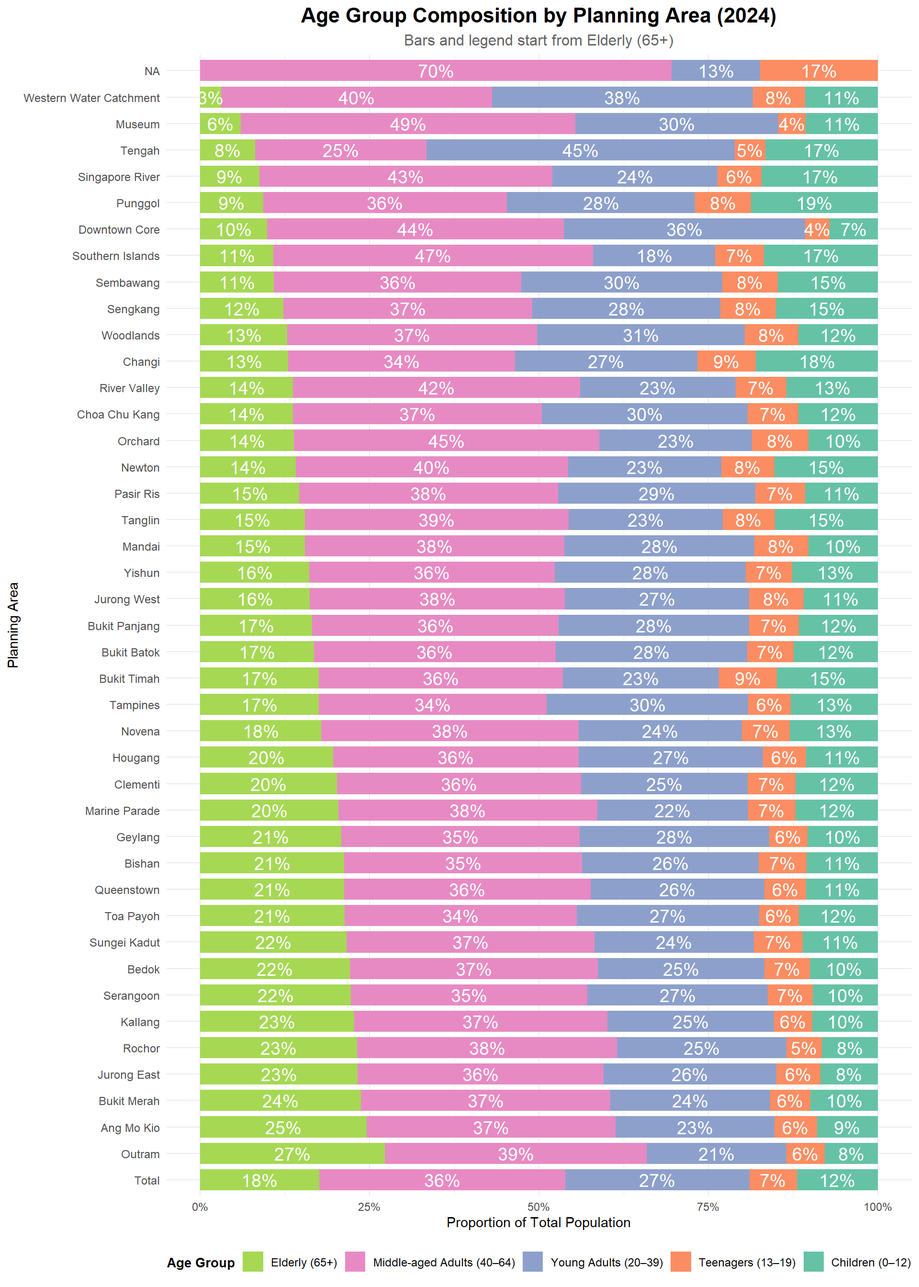
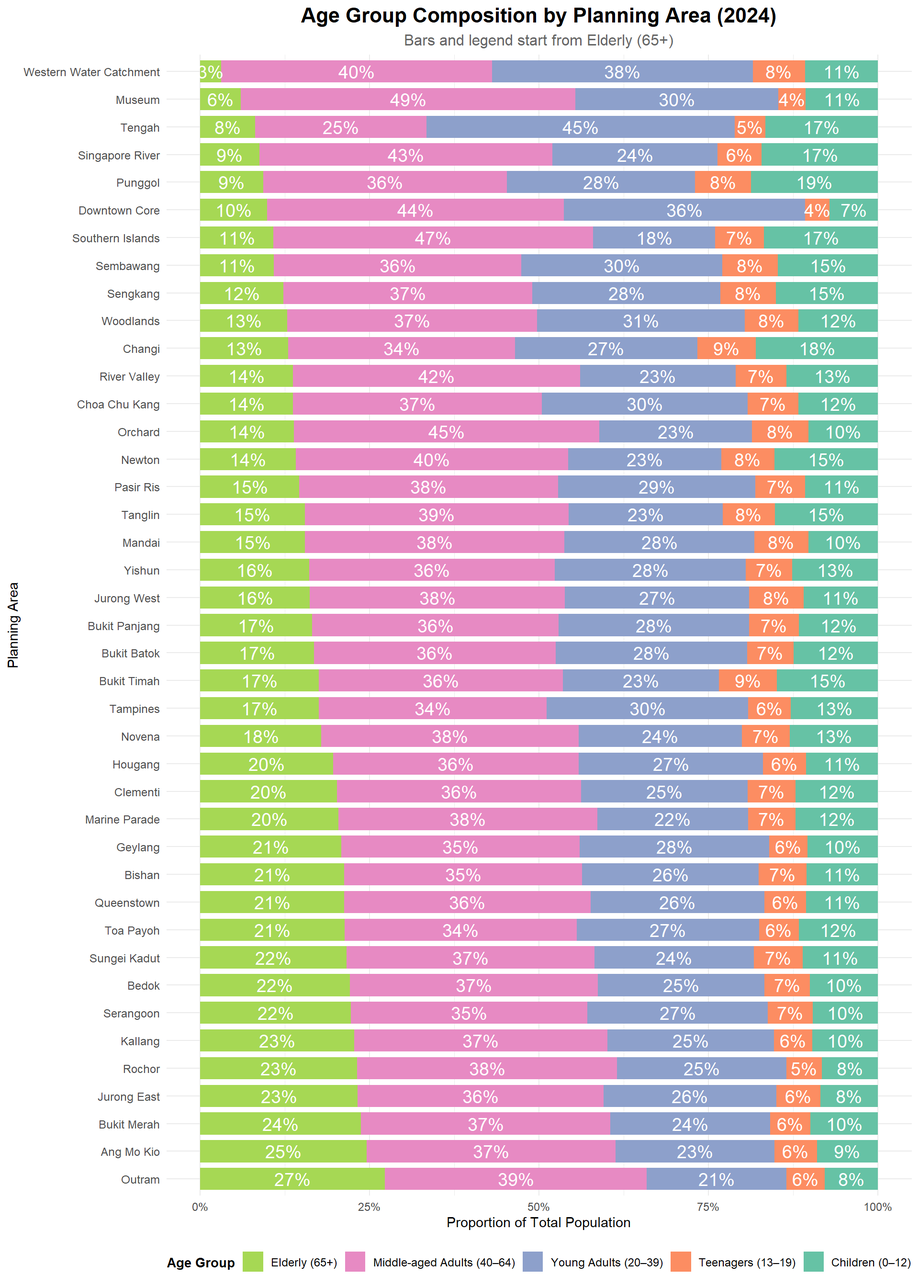
commit fix and visual changes

diff --git a/_site/Take-Home_Ex/Take-Home_Ex01/Take-Home_Ex01.html b/_site/Take-Home_Ex/Take-Home_Ex01/Take-Home_Ex01.html
@@ -185,6 +185,7 @@ pre > code.sourceCode > span > a:first-child::before { text-decoration: underlin
   <ul>
   <li><a href="#editorial-brief-visualising-singapores-resident-population-2024" id="toc-editorial-brief-visualising-singapores-resident-population-2024" class="nav-link active" data-scroll-target="#editorial-brief-visualising-singapores-resident-population-2024">Editorial Brief – Visualising Singapore’s Resident Population (2024)</a>
   <ul class="collapse">
+  <li><a href="#data-source" id="toc-data-source" class="nav-link" data-scroll-target="#data-source">Data Source</a></li>
   <li><a href="#visualisation-objectives" id="toc-visualisation-objectives" class="nav-link" data-scroll-target="#visualisation-objectives">Visualisation Objectives</a></li>
   </ul></li>
   <li><a href="#data-preparation-summary" id="toc-data-preparation-summary" class="nav-link" data-scroll-target="#data-preparation-summary">Data Preparation Summary</a>
@@ -250,8 +251,11 @@ pre > code.sourceCode > span > a:first-child::before { text-decoration: underlin
 <section id="editorial-brief-visualising-singapores-resident-population-2024" class="level2">
 <h2 class="anchored" data-anchor-id="editorial-brief-visualising-singapores-resident-population-2024">Editorial Brief – Visualising Singapore’s Resident Population (2024)</h2>
 <p>As the graphical editor of a media company, I have been tasked to design up to <strong>three impactful data visualisations</strong> to support an article on Singapore’s resident population as of <strong>June 2024</strong>.</p>
-<p>The aim is to help readers quickly understand demographic trends using clear and accessible visuals based on official statistics. ### Data Source</p>
+<p>The aim is to help readers quickly understand demographic trends using clear and accessible visuals based on official statistics.</p>
+<section id="data-source" class="level3">
+<h3 class="anchored" data-anchor-id="data-source">Data Source</h3>
 <p><a href="https://www.singstat.gov.sg/find-data/search-by-theme/population/geographic-distribution/latest-data">Department of Statistics Singapore (DOS)</a>: Planning Area and Subzone, Single Year of Age (0–100+), Sex (Male, Female, Total), Resident Population counts (as of June 2024)</p>
+</section>
 <section id="visualisation-objectives" class="level3">
 <h3 class="anchored" data-anchor-id="visualisation-objectives">Visualisation Objectives</h3>
 <ul>
@@ -376,7 +380,7 @@ Any rows with missing (<code>NA</code>) values in <code>Age</code> or <code>Popu
 <span id="cb3-8"><a href="#cb3-8" aria-hidden="true" tabindex="-1"></a>  <span class="fu">scale_y_continuous</span>(<span class="at">labels =</span> <span class="cf">function</span>(x) <span class="fu">comma</span>(<span class="fu">abs</span>(x))) <span class="sc">+</span></span>
 <span id="cb3-9"><a href="#cb3-9" aria-hidden="true" tabindex="-1"></a>  <span class="fu">scale_fill_manual</span>(</span>
 <span id="cb3-10"><a href="#cb3-10" aria-hidden="true" tabindex="-1"></a>    <span class="at">values =</span> <span class="fu">c</span>(<span class="st">"Males"</span> <span class="ot">=</span> <span class="st">"#00bfc4"</span>, <span class="st">"Females"</span> <span class="ot">=</span> <span class="st">"#f8766d"</span>),</span>
-<span id="cb3-11"><a href="#cb3-11" aria-hidden="true" tabindex="-1"></a>    <span class="at">breaks =</span> <span class="fu">c</span>(<span class="st">"Males"</span>, <span class="st">"Females"</span>),  <span class="co"># ensures correct order in legend</span></span>
+<span id="cb3-11"><a href="#cb3-11" aria-hidden="true" tabindex="-1"></a>    <span class="at">breaks =</span> <span class="fu">c</span>(<span class="st">"Males"</span>, <span class="st">"Females"</span>), </span>
 <span id="cb3-12"><a href="#cb3-12" aria-hidden="true" tabindex="-1"></a>    <span class="at">labels =</span> <span class="fu">c</span>(<span class="st">"Males"</span>, <span class="st">"Females"</span>)</span>
 <span id="cb3-13"><a href="#cb3-13" aria-hidden="true" tabindex="-1"></a>  ) <span class="sc">+</span></span>
 <span id="cb3-14"><a href="#cb3-14" aria-hidden="true" tabindex="-1"></a>  <span class="fu">labs</span>(</span>
@@ -511,64 +515,81 @@ Compared to the total population, the <strong>elderly population values are clos
 <span id="cb5-12"><a href="#cb5-12" aria-hidden="true" tabindex="-1"></a></span>
 <span id="cb5-13"><a href="#cb5-13" aria-hidden="true" tabindex="-1"></a>pop_grouped <span class="ot">&lt;-</span> pop_data <span class="sc">%&gt;%</span></span>
 <span id="cb5-14"><a href="#cb5-14" aria-hidden="true" tabindex="-1"></a>  <span class="fu">filter</span>(Sex <span class="sc">==</span> <span class="st">"Total"</span>) <span class="sc">%&gt;%</span></span>
-<span id="cb5-15"><a href="#cb5-15" aria-hidden="true" tabindex="-1"></a>  <span class="fu">mutate</span>(<span class="at">Age_Group =</span> <span class="fu">case_when</span>(</span>
-<span id="cb5-16"><a href="#cb5-16" aria-hidden="true" tabindex="-1"></a>    Age <span class="sc">&gt;=</span> <span class="dv">0</span>  <span class="sc">&amp;</span> Age <span class="sc">&lt;=</span> <span class="dv">12</span>  <span class="sc">~</span> <span class="st">"Children (0–12)"</span>,</span>
-<span id="cb5-17"><a href="#cb5-17" aria-hidden="true" tabindex="-1"></a>    Age <span class="sc">&gt;=</span> <span class="dv">13</span> <span class="sc">&amp;</span> Age <span class="sc">&lt;=</span> <span class="dv">19</span>  <span class="sc">~</span> <span class="st">"Teenagers (13–19)"</span>,</span>
-<span id="cb5-18"><a href="#cb5-18" aria-hidden="true" tabindex="-1"></a>    Age <span class="sc">&gt;=</span> <span class="dv">20</span> <span class="sc">&amp;</span> Age <span class="sc">&lt;=</span> <span class="dv">39</span>  <span class="sc">~</span> <span class="st">"Young Adults (20–39)"</span>,</span>
-<span id="cb5-19"><a href="#cb5-19" aria-hidden="true" tabindex="-1"></a>    Age <span class="sc">&gt;=</span> <span class="dv">40</span> <span class="sc">&amp;</span> Age <span class="sc">&lt;=</span> <span class="dv">64</span>  <span class="sc">~</span> <span class="st">"Middle-aged Adults (40–64)"</span>,</span>
-<span id="cb5-20"><a href="#cb5-20" aria-hidden="true" tabindex="-1"></a>    Age <span class="sc">&gt;=</span> <span class="dv">65</span>              <span class="sc">~</span> <span class="st">"Elderly (65+)"</span></span>
-<span id="cb5-21"><a href="#cb5-21" aria-hidden="true" tabindex="-1"></a>  )) <span class="sc">%&gt;%</span></span>
-<span id="cb5-22"><a href="#cb5-22" aria-hidden="true" tabindex="-1"></a>  <span class="fu">mutate</span>(<span class="at">Age_Group =</span> <span class="fu">factor</span>(Age_Group, <span class="at">levels =</span> age_levels)) <span class="sc">%&gt;%</span></span>
-<span id="cb5-23"><a href="#cb5-23" aria-hidden="true" tabindex="-1"></a>  <span class="fu">group_by</span>(<span class="st">`</span><span class="at">Planning Area</span><span class="st">`</span>, Age_Group) <span class="sc">%&gt;%</span></span>
-<span id="cb5-24"><a href="#cb5-24" aria-hidden="true" tabindex="-1"></a>  <span class="fu">summarise</span>(<span class="at">Population =</span> <span class="fu">sum</span>(Population), <span class="at">.groups =</span> <span class="st">"drop"</span>)</span>
-<span id="cb5-25"><a href="#cb5-25" aria-hidden="true" tabindex="-1"></a></span>
-<span id="cb5-26"><a href="#cb5-26" aria-hidden="true" tabindex="-1"></a>pop_percent <span class="ot">&lt;-</span> pop_grouped <span class="sc">%&gt;%</span></span>
-<span id="cb5-27"><a href="#cb5-27" aria-hidden="true" tabindex="-1"></a>  <span class="fu">mutate</span>(<span class="st">`</span><span class="at">Planning Area</span><span class="st">`</span> <span class="ot">=</span> <span class="fu">trimws</span>(<span class="st">`</span><span class="at">Planning Area</span><span class="st">`</span>)) <span class="sc">%&gt;%</span></span>
-<span id="cb5-28"><a href="#cb5-28" aria-hidden="true" tabindex="-1"></a>  <span class="fu">filter</span>(<span class="sc">!</span><span class="fu">is.na</span>(<span class="st">`</span><span class="at">Planning Area</span><span class="st">`</span>), <span class="st">`</span><span class="at">Planning Area</span><span class="st">`</span> <span class="sc">!=</span> <span class="st">""</span>, <span class="fu">toupper</span>(<span class="st">`</span><span class="at">Planning Area</span><span class="st">`</span>) <span class="sc">!=</span> <span class="st">"NA"</span>) <span class="sc">%&gt;%</span></span>
-<span id="cb5-29"><a href="#cb5-29" aria-hidden="true" tabindex="-1"></a>  <span class="fu">group_by</span>(<span class="st">`</span><span class="at">Planning Area</span><span class="st">`</span>) <span class="sc">%&gt;%</span></span>
-<span id="cb5-30"><a href="#cb5-30" aria-hidden="true" tabindex="-1"></a>  <span class="fu">mutate</span>(<span class="at">Total =</span> <span class="fu">sum</span>(Population),</span>
-<span id="cb5-31"><a href="#cb5-31" aria-hidden="true" tabindex="-1"></a>         <span class="at">Share =</span> Population <span class="sc">/</span> Total) <span class="sc">%&gt;%</span></span>
-<span id="cb5-32"><a href="#cb5-32" aria-hidden="true" tabindex="-1"></a>  <span class="fu">ungroup</span>()</span>
-<span id="cb5-33"><a href="#cb5-33" aria-hidden="true" tabindex="-1"></a></span>
-<span id="cb5-34"><a href="#cb5-34" aria-hidden="true" tabindex="-1"></a>ordering <span class="ot">&lt;-</span> pop_percent <span class="sc">%&gt;%</span></span>
-<span id="cb5-35"><a href="#cb5-35" aria-hidden="true" tabindex="-1"></a>  <span class="fu">filter</span>(Age_Group <span class="sc">==</span> <span class="st">"Elderly (65+)"</span>, <span class="st">`</span><span class="at">Planning Area</span><span class="st">`</span> <span class="sc">!=</span> <span class="st">"Total"</span>) <span class="sc">%&gt;%</span></span>
-<span id="cb5-36"><a href="#cb5-36" aria-hidden="true" tabindex="-1"></a>  <span class="fu">arrange</span>(<span class="fu">desc</span>(Share)) <span class="sc">%&gt;%</span></span>
-<span id="cb5-37"><a href="#cb5-37" aria-hidden="true" tabindex="-1"></a>  <span class="fu">pull</span>(<span class="st">`</span><span class="at">Planning Area</span><span class="st">`</span>)</span>
-<span id="cb5-38"><a href="#cb5-38" aria-hidden="true" tabindex="-1"></a></span>
-<span id="cb5-39"><a href="#cb5-39" aria-hidden="true" tabindex="-1"></a>pop_percent<span class="sc">$</span><span class="st">`</span><span class="at">Planning Area</span><span class="st">`</span> <span class="ot">&lt;-</span> <span class="fu">factor</span>(</span>
-<span id="cb5-40"><a href="#cb5-40" aria-hidden="true" tabindex="-1"></a>  pop_percent<span class="sc">$</span><span class="st">`</span><span class="at">Planning Area</span><span class="st">`</span>,</span>
-<span id="cb5-41"><a href="#cb5-41" aria-hidden="true" tabindex="-1"></a>  <span class="at">levels =</span> <span class="fu">c</span>(<span class="st">"Total"</span>, ordering)</span>
-<span id="cb5-42"><a href="#cb5-42" aria-hidden="true" tabindex="-1"></a>)</span>
+<span id="cb5-15"><a href="#cb5-15" aria-hidden="true" tabindex="-1"></a>  <span class="fu">mutate</span>(</span>
+<span id="cb5-16"><a href="#cb5-16" aria-hidden="true" tabindex="-1"></a>    <span class="at">Age_Group =</span> <span class="fu">case_when</span>(</span>
+<span id="cb5-17"><a href="#cb5-17" aria-hidden="true" tabindex="-1"></a>      Age <span class="sc">&gt;=</span> <span class="dv">0</span>  <span class="sc">&amp;</span> Age <span class="sc">&lt;=</span> <span class="dv">12</span>  <span class="sc">~</span> <span class="st">"Children (0–12)"</span>,</span>
+<span id="cb5-18"><a href="#cb5-18" aria-hidden="true" tabindex="-1"></a>      Age <span class="sc">&gt;=</span> <span class="dv">13</span> <span class="sc">&amp;</span> Age <span class="sc">&lt;=</span> <span class="dv">19</span>  <span class="sc">~</span> <span class="st">"Teenagers (13–19)"</span>,</span>
+<span id="cb5-19"><a href="#cb5-19" aria-hidden="true" tabindex="-1"></a>      Age <span class="sc">&gt;=</span> <span class="dv">20</span> <span class="sc">&amp;</span> Age <span class="sc">&lt;=</span> <span class="dv">39</span>  <span class="sc">~</span> <span class="st">"Young Adults (20–39)"</span>,</span>
+<span id="cb5-20"><a href="#cb5-20" aria-hidden="true" tabindex="-1"></a>      Age <span class="sc">&gt;=</span> <span class="dv">40</span> <span class="sc">&amp;</span> Age <span class="sc">&lt;=</span> <span class="dv">64</span>  <span class="sc">~</span> <span class="st">"Middle-aged Adults (40–64)"</span>,</span>
+<span id="cb5-21"><a href="#cb5-21" aria-hidden="true" tabindex="-1"></a>      Age <span class="sc">&gt;=</span> <span class="dv">65</span>              <span class="sc">~</span> <span class="st">"Elderly (65+)"</span></span>
+<span id="cb5-22"><a href="#cb5-22" aria-hidden="true" tabindex="-1"></a>    )</span>
+<span id="cb5-23"><a href="#cb5-23" aria-hidden="true" tabindex="-1"></a>  ) <span class="sc">%&gt;%</span></span>
+<span id="cb5-24"><a href="#cb5-24" aria-hidden="true" tabindex="-1"></a>  <span class="fu">filter</span>(<span class="sc">!</span><span class="fu">is.na</span>(Age_Group)) <span class="sc">%&gt;%</span>  </span>
+<span id="cb5-25"><a href="#cb5-25" aria-hidden="true" tabindex="-1"></a>  <span class="fu">group_by</span>(<span class="st">`</span><span class="at">Planning Area</span><span class="st">`</span>, Age_Group) <span class="sc">%&gt;%</span></span>
+<span id="cb5-26"><a href="#cb5-26" aria-hidden="true" tabindex="-1"></a>  <span class="fu">summarise</span>(<span class="at">Population =</span> <span class="fu">sum</span>(Population), <span class="at">.groups =</span> <span class="st">"drop"</span>)</span>
+<span id="cb5-27"><a href="#cb5-27" aria-hidden="true" tabindex="-1"></a></span>
+<span id="cb5-28"><a href="#cb5-28" aria-hidden="true" tabindex="-1"></a></span>
+<span id="cb5-29"><a href="#cb5-29" aria-hidden="true" tabindex="-1"></a>pop_percent <span class="ot">&lt;-</span> pop_grouped <span class="sc">%&gt;%</span></span>
+<span id="cb5-30"><a href="#cb5-30" aria-hidden="true" tabindex="-1"></a>  <span class="fu">mutate</span>(<span class="st">`</span><span class="at">Planning Area</span><span class="st">`</span> <span class="ot">=</span> <span class="fu">trimws</span>(<span class="st">`</span><span class="at">Planning Area</span><span class="st">`</span>)) <span class="sc">%&gt;%</span></span>
+<span id="cb5-31"><a href="#cb5-31" aria-hidden="true" tabindex="-1"></a>  <span class="fu">filter</span>(</span>
+<span id="cb5-32"><a href="#cb5-32" aria-hidden="true" tabindex="-1"></a>    <span class="sc">!</span><span class="fu">is.na</span>(<span class="st">`</span><span class="at">Planning Area</span><span class="st">`</span>),</span>
+<span id="cb5-33"><a href="#cb5-33" aria-hidden="true" tabindex="-1"></a>    <span class="st">`</span><span class="at">Planning Area</span><span class="st">`</span> <span class="sc">!=</span> <span class="st">""</span>,</span>
+<span id="cb5-34"><a href="#cb5-34" aria-hidden="true" tabindex="-1"></a>    <span class="st">`</span><span class="at">Planning Area</span><span class="st">`</span> <span class="sc">!=</span> <span class="st">"NA"</span>,  </span>
+<span id="cb5-35"><a href="#cb5-35" aria-hidden="true" tabindex="-1"></a>    <span class="st">`</span><span class="at">Planning Area</span><span class="st">`</span> <span class="sc">!=</span> <span class="st">"Total"</span></span>
+<span id="cb5-36"><a href="#cb5-36" aria-hidden="true" tabindex="-1"></a>  ) <span class="sc">%&gt;%</span></span>
+<span id="cb5-37"><a href="#cb5-37" aria-hidden="true" tabindex="-1"></a>  <span class="fu">group_by</span>(<span class="st">`</span><span class="at">Planning Area</span><span class="st">`</span>) <span class="sc">%&gt;%</span></span>
+<span id="cb5-38"><a href="#cb5-38" aria-hidden="true" tabindex="-1"></a>  <span class="fu">mutate</span>(</span>
+<span id="cb5-39"><a href="#cb5-39" aria-hidden="true" tabindex="-1"></a>    <span class="at">Total =</span> <span class="fu">sum</span>(Population),</span>
+<span id="cb5-40"><a href="#cb5-40" aria-hidden="true" tabindex="-1"></a>    <span class="at">Share =</span> Population <span class="sc">/</span> Total</span>
+<span id="cb5-41"><a href="#cb5-41" aria-hidden="true" tabindex="-1"></a>  ) <span class="sc">%&gt;%</span></span>
+<span id="cb5-42"><a href="#cb5-42" aria-hidden="true" tabindex="-1"></a>  <span class="fu">ungroup</span>()</span>
 <span id="cb5-43"><a href="#cb5-43" aria-hidden="true" tabindex="-1"></a></span>
-<span id="cb5-44"><a href="#cb5-44" aria-hidden="true" tabindex="-1"></a>pop_percent<span class="sc">$</span>Age_Group <span class="ot">&lt;-</span> <span class="fu">factor</span>(pop_percent<span class="sc">$</span>Age_Group, <span class="at">levels =</span> <span class="fu">rev</span>(age_levels))</span>
-<span id="cb5-45"><a href="#cb5-45" aria-hidden="true" tabindex="-1"></a></span>
-<span id="cb5-46"><a href="#cb5-46" aria-hidden="true" tabindex="-1"></a><span class="fu">ggplot</span>(pop_percent, <span class="fu">aes</span>(<span class="at">x =</span> <span class="st">`</span><span class="at">Planning Area</span><span class="st">`</span>, <span class="at">y =</span> Share, <span class="at">fill =</span> Age_Group)) <span class="sc">+</span></span>
-<span id="cb5-47"><a href="#cb5-47" aria-hidden="true" tabindex="-1"></a>  <span class="fu">geom_col</span>(<span class="at">width =</span> <span class="fl">0.8</span>) <span class="sc">+</span></span>
-<span id="cb5-48"><a href="#cb5-48" aria-hidden="true" tabindex="-1"></a>  <span class="fu">geom_text</span>(<span class="fu">aes</span>(<span class="at">label =</span> scales<span class="sc">::</span><span class="fu">percent</span>(Share, <span class="at">accuracy =</span> <span class="dv">1</span>)),</span>
-<span id="cb5-49"><a href="#cb5-49" aria-hidden="true" tabindex="-1"></a>            <span class="at">position =</span> <span class="fu">position_stack</span>(<span class="at">vjust =</span> <span class="fl">0.5</span>),</span>
-<span id="cb5-50"><a href="#cb5-50" aria-hidden="true" tabindex="-1"></a>            <span class="at">size =</span> <span class="dv">5</span>, <span class="at">color =</span> <span class="st">"white"</span>) <span class="sc">+</span></span>
-<span id="cb5-51"><a href="#cb5-51" aria-hidden="true" tabindex="-1"></a>  <span class="fu">scale_y_continuous</span>(<span class="at">labels =</span> <span class="fu">percent_format</span>(<span class="at">accuracy =</span> <span class="dv">1</span>)) <span class="sc">+</span></span>
-<span id="cb5-52"><a href="#cb5-52" aria-hidden="true" tabindex="-1"></a>  <span class="fu">scale_fill_manual</span>(</span>
-<span id="cb5-53"><a href="#cb5-53" aria-hidden="true" tabindex="-1"></a>    <span class="at">values =</span> age_colors,</span>
-<span id="cb5-54"><a href="#cb5-54" aria-hidden="true" tabindex="-1"></a>    <span class="at">breaks =</span> age_levels</span>
-<span id="cb5-55"><a href="#cb5-55" aria-hidden="true" tabindex="-1"></a>  ) <span class="sc">+</span></span>
-<span id="cb5-56"><a href="#cb5-56" aria-hidden="true" tabindex="-1"></a>  <span class="fu">coord_flip</span>() <span class="sc">+</span></span>
-<span id="cb5-57"><a href="#cb5-57" aria-hidden="true" tabindex="-1"></a>  <span class="fu">labs</span>(</span>
-<span id="cb5-58"><a href="#cb5-58" aria-hidden="true" tabindex="-1"></a>    <span class="at">title =</span> <span class="st">"Age Group Composition by Planning Area (2024)"</span>,</span>
-<span id="cb5-59"><a href="#cb5-59" aria-hidden="true" tabindex="-1"></a>    <span class="at">subtitle =</span> <span class="st">"Bars and legend start from Elderly (65+)"</span>,</span>
-<span id="cb5-60"><a href="#cb5-60" aria-hidden="true" tabindex="-1"></a>    <span class="at">x =</span> <span class="st">"Planning Area"</span>,</span>
-<span id="cb5-61"><a href="#cb5-61" aria-hidden="true" tabindex="-1"></a>    <span class="at">y =</span> <span class="st">"Proportion of Total Population"</span>,</span>
-<span id="cb5-62"><a href="#cb5-62" aria-hidden="true" tabindex="-1"></a>    <span class="at">fill =</span> <span class="st">"Age Group"</span></span>
-<span id="cb5-63"><a href="#cb5-63" aria-hidden="true" tabindex="-1"></a>  ) <span class="sc">+</span></span>
-<span id="cb5-64"><a href="#cb5-64" aria-hidden="true" tabindex="-1"></a>  <span class="fu">theme_minimal</span>(<span class="at">base_family =</span> <span class="st">"Helvetica"</span>) <span class="sc">+</span></span>
-<span id="cb5-65"><a href="#cb5-65" aria-hidden="true" tabindex="-1"></a>  <span class="fu">theme</span>(</span>
-<span id="cb5-66"><a href="#cb5-66" aria-hidden="true" tabindex="-1"></a>    <span class="at">plot.title =</span> <span class="fu">element_text</span>(<span class="at">face =</span> <span class="st">"bold"</span>, <span class="at">size =</span> <span class="dv">16</span>, <span class="at">hjust =</span> <span class="fl">0.5</span>),</span>
-<span id="cb5-67"><a href="#cb5-67" aria-hidden="true" tabindex="-1"></a>    <span class="at">plot.subtitle =</span> <span class="fu">element_text</span>(<span class="at">size =</span> <span class="dv">12</span>, <span class="at">hjust =</span> <span class="fl">0.5</span>, <span class="at">color =</span> <span class="st">"grey40"</span>),</span>
-<span id="cb5-68"><a href="#cb5-68" aria-hidden="true" tabindex="-1"></a>    <span class="at">legend.position =</span> <span class="st">"bottom"</span>,</span>
-<span id="cb5-69"><a href="#cb5-69" aria-hidden="true" tabindex="-1"></a>    <span class="at">legend.title =</span> <span class="fu">element_text</span>(<span class="at">size =</span> <span class="dv">10</span>, <span class="at">face =</span> <span class="st">"bold"</span>),</span>
-<span id="cb5-70"><a href="#cb5-70" aria-hidden="true" tabindex="-1"></a>    <span class="at">legend.text =</span> <span class="fu">element_text</span>(<span class="at">size =</span> <span class="dv">9</span>),</span>
-<span id="cb5-71"><a href="#cb5-71" aria-hidden="true" tabindex="-1"></a>    <span class="at">axis.text =</span> <span class="fu">element_text</span>(<span class="at">size =</span> <span class="dv">9</span>)</span>
-<span id="cb5-72"><a href="#cb5-72" aria-hidden="true" tabindex="-1"></a>  )</span></code><button title="Copy to Clipboard" class="code-copy-button"><i class="bi"></i></button></pre></div>
+<span id="cb5-44"><a href="#cb5-44" aria-hidden="true" tabindex="-1"></a></span>
+<span id="cb5-45"><a href="#cb5-45" aria-hidden="true" tabindex="-1"></a><span class="cf">if</span>(<span class="st">"NA"</span> <span class="sc">%in%</span> pop_percent<span class="sc">$</span><span class="st">`</span><span class="at">Planning Area</span><span class="st">`</span>) {</span>
+<span id="cb5-46"><a href="#cb5-46" aria-hidden="true" tabindex="-1"></a>  <span class="fu">print</span>(<span class="st">"Warning: 'NA' string still found in Planning Area"</span>)</span>
+<span id="cb5-47"><a href="#cb5-47" aria-hidden="true" tabindex="-1"></a>}</span>
+<span id="cb5-48"><a href="#cb5-48" aria-hidden="true" tabindex="-1"></a></span>
+<span id="cb5-49"><a href="#cb5-49" aria-hidden="true" tabindex="-1"></a></span>
+<span id="cb5-50"><a href="#cb5-50" aria-hidden="true" tabindex="-1"></a>ordering <span class="ot">&lt;-</span> pop_percent <span class="sc">%&gt;%</span></span>
+<span id="cb5-51"><a href="#cb5-51" aria-hidden="true" tabindex="-1"></a>  <span class="fu">filter</span>(Age_Group <span class="sc">==</span> <span class="st">"Elderly (65+)"</span>) <span class="sc">%&gt;%</span></span>
+<span id="cb5-52"><a href="#cb5-52" aria-hidden="true" tabindex="-1"></a>  <span class="fu">arrange</span>(<span class="fu">desc</span>(Share)) <span class="sc">%&gt;%</span></span>
+<span id="cb5-53"><a href="#cb5-53" aria-hidden="true" tabindex="-1"></a>  <span class="fu">pull</span>(<span class="st">`</span><span class="at">Planning Area</span><span class="st">`</span>)</span>
+<span id="cb5-54"><a href="#cb5-54" aria-hidden="true" tabindex="-1"></a></span>
+<span id="cb5-55"><a href="#cb5-55" aria-hidden="true" tabindex="-1"></a>ordering <span class="ot">&lt;-</span> ordering[<span class="sc">!</span><span class="fu">is.na</span>(ordering) <span class="sc">&amp;</span> ordering <span class="sc">!=</span> <span class="st">"NA"</span>]</span>
+<span id="cb5-56"><a href="#cb5-56" aria-hidden="true" tabindex="-1"></a></span>
+<span id="cb5-57"><a href="#cb5-57" aria-hidden="true" tabindex="-1"></a>pop_percent<span class="sc">$</span><span class="st">`</span><span class="at">Planning Area</span><span class="st">`</span> <span class="ot">&lt;-</span> <span class="fu">factor</span>(pop_percent<span class="sc">$</span><span class="st">`</span><span class="at">Planning Area</span><span class="st">`</span>, <span class="at">levels =</span> ordering)</span>
+<span id="cb5-58"><a href="#cb5-58" aria-hidden="true" tabindex="-1"></a>pop_percent<span class="sc">$</span>Age_Group <span class="ot">&lt;-</span> <span class="fu">factor</span>(pop_percent<span class="sc">$</span>Age_Group, <span class="at">levels =</span> <span class="fu">rev</span>(age_levels))</span>
+<span id="cb5-59"><a href="#cb5-59" aria-hidden="true" tabindex="-1"></a></span>
+<span id="cb5-60"><a href="#cb5-60" aria-hidden="true" tabindex="-1"></a>pop_percent <span class="ot">&lt;-</span> pop_percent <span class="sc">%&gt;%</span></span>
+<span id="cb5-61"><a href="#cb5-61" aria-hidden="true" tabindex="-1"></a>  <span class="fu">filter</span>(<span class="st">`</span><span class="at">Planning Area</span><span class="st">`</span> <span class="sc">!=</span> <span class="st">"NA"</span> <span class="sc">&amp;</span> <span class="sc">!</span><span class="fu">is.na</span>(<span class="st">`</span><span class="at">Planning Area</span><span class="st">`</span>))</span>
+<span id="cb5-62"><a href="#cb5-62" aria-hidden="true" tabindex="-1"></a></span>
+<span id="cb5-63"><a href="#cb5-63" aria-hidden="true" tabindex="-1"></a><span class="fu">ggplot</span>(pop_percent, <span class="fu">aes</span>(<span class="at">x =</span> <span class="st">`</span><span class="at">Planning Area</span><span class="st">`</span>, <span class="at">y =</span> Share, <span class="at">fill =</span> Age_Group)) <span class="sc">+</span></span>
+<span id="cb5-64"><a href="#cb5-64" aria-hidden="true" tabindex="-1"></a>  <span class="fu">geom_col</span>(<span class="at">width =</span> <span class="fl">0.8</span>) <span class="sc">+</span></span>
+<span id="cb5-65"><a href="#cb5-65" aria-hidden="true" tabindex="-1"></a>  <span class="fu">geom_text</span>(</span>
+<span id="cb5-66"><a href="#cb5-66" aria-hidden="true" tabindex="-1"></a>    <span class="fu">aes</span>(<span class="at">label =</span> <span class="fu">percent</span>(Share, <span class="at">accuracy =</span> <span class="dv">1</span>)),</span>
+<span id="cb5-67"><a href="#cb5-67" aria-hidden="true" tabindex="-1"></a>    <span class="at">position =</span> <span class="fu">position_stack</span>(<span class="at">vjust =</span> <span class="fl">0.5</span>),</span>
+<span id="cb5-68"><a href="#cb5-68" aria-hidden="true" tabindex="-1"></a>    <span class="at">size =</span> <span class="dv">5</span>,</span>
+<span id="cb5-69"><a href="#cb5-69" aria-hidden="true" tabindex="-1"></a>    <span class="at">color =</span> <span class="st">"white"</span></span>
+<span id="cb5-70"><a href="#cb5-70" aria-hidden="true" tabindex="-1"></a>  ) <span class="sc">+</span></span>
+<span id="cb5-71"><a href="#cb5-71" aria-hidden="true" tabindex="-1"></a>  <span class="fu">scale_y_continuous</span>(<span class="at">labels =</span> <span class="fu">percent_format</span>(<span class="at">accuracy =</span> <span class="dv">1</span>)) <span class="sc">+</span></span>
+<span id="cb5-72"><a href="#cb5-72" aria-hidden="true" tabindex="-1"></a>  <span class="fu">scale_fill_manual</span>(<span class="at">values =</span> age_colors, <span class="at">breaks =</span> age_levels) <span class="sc">+</span></span>
+<span id="cb5-73"><a href="#cb5-73" aria-hidden="true" tabindex="-1"></a>  <span class="fu">coord_flip</span>() <span class="sc">+</span></span>
+<span id="cb5-74"><a href="#cb5-74" aria-hidden="true" tabindex="-1"></a>  <span class="fu">labs</span>(</span>
+<span id="cb5-75"><a href="#cb5-75" aria-hidden="true" tabindex="-1"></a>    <span class="at">title =</span> <span class="st">"Age Group Composition by Planning Area (2024)"</span>,</span>
+<span id="cb5-76"><a href="#cb5-76" aria-hidden="true" tabindex="-1"></a>    <span class="at">subtitle =</span> <span class="st">"Bars and legend start from Elderly (65+)"</span>,</span>
+<span id="cb5-77"><a href="#cb5-77" aria-hidden="true" tabindex="-1"></a>    <span class="at">x =</span> <span class="st">"Planning Area"</span>,</span>
+<span id="cb5-78"><a href="#cb5-78" aria-hidden="true" tabindex="-1"></a>    <span class="at">y =</span> <span class="st">"Proportion of Total Population"</span>,</span>
+<span id="cb5-79"><a href="#cb5-79" aria-hidden="true" tabindex="-1"></a>    <span class="at">fill =</span> <span class="st">"Age Group"</span></span>
+<span id="cb5-80"><a href="#cb5-80" aria-hidden="true" tabindex="-1"></a>  ) <span class="sc">+</span></span>
+<span id="cb5-81"><a href="#cb5-81" aria-hidden="true" tabindex="-1"></a>  <span class="fu">theme_minimal</span>(<span class="at">base_family =</span> <span class="st">"Helvetica"</span>) <span class="sc">+</span></span>
+<span id="cb5-82"><a href="#cb5-82" aria-hidden="true" tabindex="-1"></a>  <span class="fu">theme</span>(</span>
+<span id="cb5-83"><a href="#cb5-83" aria-hidden="true" tabindex="-1"></a>    <span class="at">plot.title =</span> <span class="fu">element_text</span>(<span class="at">face =</span> <span class="st">"bold"</span>, <span class="at">size =</span> <span class="dv">16</span>, <span class="at">hjust =</span> <span class="fl">0.5</span>),</span>
+<span id="cb5-84"><a href="#cb5-84" aria-hidden="true" tabindex="-1"></a>    <span class="at">plot.subtitle =</span> <span class="fu">element_text</span>(<span class="at">size =</span> <span class="dv">12</span>, <span class="at">hjust =</span> <span class="fl">0.5</span>, <span class="at">color =</span> <span class="st">"grey40"</span>),</span>
+<span id="cb5-85"><a href="#cb5-85" aria-hidden="true" tabindex="-1"></a>    <span class="at">legend.position =</span> <span class="st">"bottom"</span>,</span>
+<span id="cb5-86"><a href="#cb5-86" aria-hidden="true" tabindex="-1"></a>    <span class="at">legend.title =</span> <span class="fu">element_text</span>(<span class="at">size =</span> <span class="dv">10</span>, <span class="at">face =</span> <span class="st">"bold"</span>),</span>
+<span id="cb5-87"><a href="#cb5-87" aria-hidden="true" tabindex="-1"></a>    <span class="at">legend.text =</span> <span class="fu">element_text</span>(<span class="at">size =</span> <span class="dv">9</span>),</span>
+<span id="cb5-88"><a href="#cb5-88" aria-hidden="true" tabindex="-1"></a>    <span class="at">axis.text =</span> <span class="fu">element_text</span>(<span class="at">size =</span> <span class="dv">9</span>)</span>
+<span id="cb5-89"><a href="#cb5-89" aria-hidden="true" tabindex="-1"></a>  )</span></code><button title="Copy to Clipboard" class="code-copy-button"><i class="bi"></i></button></pre></div>
 <div class="cell-output-display">
 <p><img src="Take-Home_Ex01_files/figure-html/unnamed-chunk-6-1.png" class="img-fluid" width="960"></p>
 </div>
